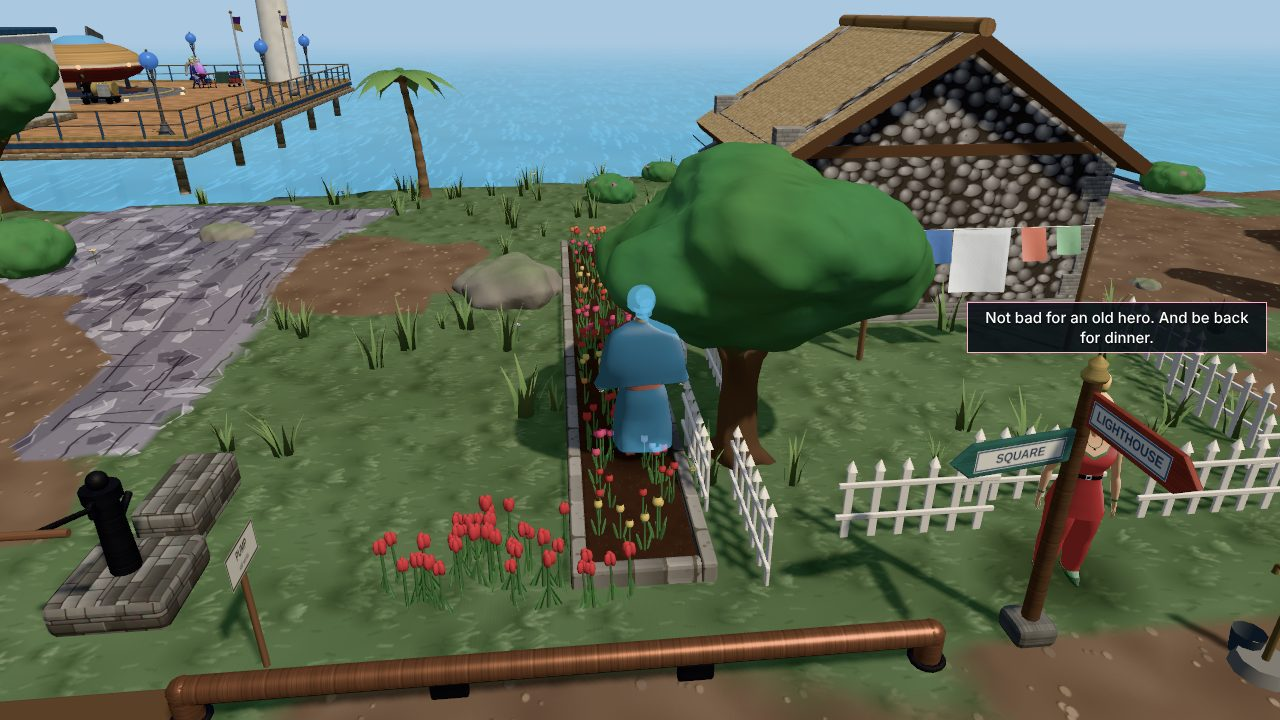
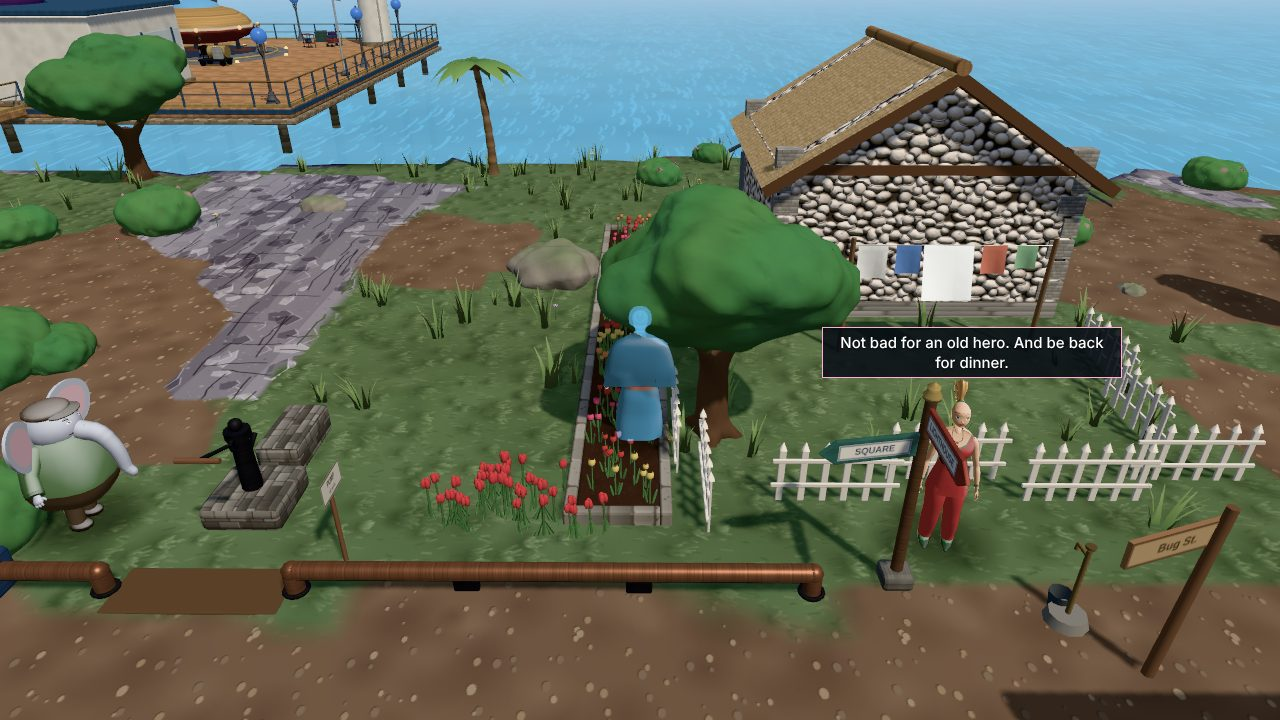
P132: the user's pick "e + f, no cost": the painted relief and the wall normal maps on all five textures on by default
Claude-Session: https://claude.ai/code/session_012GFEakZyL3XxjZKHRj5dFg

diff --git a/lba3/src/engine/textures.js b/lba3/src/engine/textures.js
@@ -374,7 +374,7 @@ export function makeTextures() {
   }
   islandTextures(T);
   nameWorldTextures(T);   // (DEPTH-LOOK: each painted texture's relief weight by its name)
-  if (DL.paint) paintDepth(T);   // (DEPTH-LOOK ?depth=paint: off by default)
+  if (DL.paint) paintDepth(T);   // (DEPTH-LOOK paint: on by default since the user's pick 25.11, P132; ?depth=none off)
   return T;
 }
 
@@ -752,8 +752,9 @@ export const WALLNORM = {
   //  dressed stone `stone` and Zeelich's corrugated sheet `zrib` are off until the user picks them (order 70.2):
   //  `?wallnormals=all` or by name, `?wallnormals=fortStone,rubbleHouse,rubble,stone,zrib`)
   names: (() => { const ON = ['fortStone', 'rubbleHouse', 'rubble'], ALL = [...ON, 'stone', 'zrib'];
-    if (!WN_ARG || WN_ARG[1] === '1') return new Set(ON);
-    if (WN_ARG[1] === 'all') return new Set(ALL);
+    // (P132, the user's pick 25.11 "e + f": all five by default now; `?wallnormals=1` the three as before)
+    if (!WN_ARG || WN_ARG[1] === 'all') return new Set(ALL);
+    if (WN_ARG[1] === '1') return new Set(ON);
     return WN_ARG[1] === '0' ? new Set() : new Set(WN_ARG[1].split(',')); })(),
   str: (typeof location !== 'undefined' && +(/[?&]wnstr=([\d.]+)/.exec(location.search) || [])[1]) || 1,
   // (the user, 24.11: "don't touch the normal map, it's good; just make it weigh more in the material": the map is drawn

diff --git a/lba3/src/engine/depthlook.js b/lba3/src/engine/depthlook.js
@@ -34,7 +34,8 @@ export const DL = {
   light: ALL || SET.has('light'),
   contact: ALL || SET.has('contact'),
   rim: ALL || SET.has('rim'),
-  paint: ALL || SET.has('paint'),
+  // (P132, the user's pick 25.11: "e + f, no cost": the painted relief is ON by default; `?depth=none` turns it off)
+  paint: ALL || SET.has('paint') || !SET.has('none'),
   // (the preset: the relief lighter where the paint already carries it, the light a little softer than alone)
   reliefK: num('dlrel', SET.has('preset') ? 0.7 : 1), aoK: num('dlao', 1), rimK: num('dlrim', 1), keyK: num('dlkey', SET.has('preset') ? 0.8 : 1), paintK: num('dlpaint', 1),
   focus: new THREE.Vector3(), area: null, bakes: 0, lastBake: null,

diff --git a/lba3/docs/lba-maturity/status.md b/lba3/docs/lba-maturity/status.md
@@ -210,7 +210,7 @@ v68 published 9.11 (1794197460-ceb9): Desert Island and the Hamalayi passes, DOO
 | P129 | 24.11 | Release date set: the full game ships 31.5.2027 | the user: "תגדיר המשחק צריך לצאת באופן מלא ב 31.5.27 שזה 30 שנה מlba2" | The target changes from a private-tester exe to a full public release. Milestones: content complete 31.12.2026, content freeze 15.3.2027, 1.0 RC 1.5.2027, final freeze 17.5.2027, release 31.5.2027. Decisions for the user before the RC: where it ships, name and branding (#21), licences (#33), installer signing, languages. RELEASE-2027.he.md; OPEN-TASKS header; NEXT-SESSION. Set. |
 | P130 | 25.11 | Twinsen stands on the pier in the opening film, under the title (the user's phone picture of v162; P127's question was about him, not the crew) | the user: "הנה טווינסן לזה התכוונתי" | Found: in the notebook cut (the default) the cut to the island at old 8 s calls exitRoom, which stands the hero at the harbour (HP(-80,-4)), visible beside the crew to the cut home at old 29 s. Fix (story/opening.js): at that cut he is put at home (twSpot), as the film's other cut already did. Checked on the title shot (portrait, old 12.2 s): the pier holds the crew only. The user's picks the same day, one by one: P127 crew look kept (yellow hat; Dallan unchanged); Arthur reads the notebook kept; P128 crystals kept; School sill kept; wave 2 kept (all three, with the figures' painted eyes); wave 1 kept unseen (spoilers); v162's E rule, overhead remarks and softer guard kept, baton damage stays 2; wave 6 kept with changes (light the mine rooms and the Blow, catch range 2.6 → 1.8 m, build the murals step at the Dark Monk's temple; the glove keeps both sources); KEYS-CLOVER: cap 13, a leaf in each box, the key stays with Twinsen, a fourth key-door in a late area, the key on the HUD. Fixed; picks recorded. Published v163 (1795596380-7a3c, built from the v162 branch tree f98766f5 + the opening fix; wave 6 held for its second round). opening.mjs: 36 PASS, 0 FAIL; the last three skip checks did not run (a page boot timed out under load). |
 | P131 | 25.11 | Zoé's head still looks very strange; "maybe more like an almond" (reopens P126, closed with "keep the round one") | the user: "שיקרתי קצת והראש של זואי עדיין מאוד מוזר אני לא יודע לשים את האצבע על זה אולי יותר בצורה של שקד" | Seen beside the LBA2 render (scratchpad p126-zoe-ref.jpg, never committed): today's head is a small round ball with the face low on it; the render's head is an almond: long, tilted forward, a high slanted forehead running into the ponytail, big eyes set high and wide, tapering to a narrow chin, large for the neck. Then the user: "לבדוק את המודל של lba2 של זואי". Worker ZOE-HEAD-4 started: LBA2's own Zoé model rendered through lba2remake.net and measured (pictures in scratch only), then: almond variants behind ?zoehead=, front/3-4/side/talking beside the reference and today's head, then in play; the user picks (P107). ZOE-HEAD-4 merged: LBA2's in-game Zoé measured (front as ours; from the side 39 % deeper, the long axis 61° back; her in-game hair is a bun of balls, ours the promo ponytail). Three heads: almond (fitted to LBA2), almond-s (halfway), almond-chin. **The user picked almond-s (now the default; ?zoehead=twinsen is the head before) and kept the ponytail.** Zoé suite PASS 3/3 with the new default (automated runtime only). Fixed. |
-| P132 | 25.11 | "I look at the game and don't see the work on the walls and the depth of the look; everything looks very flat" (on the PC) | the user: "אני מסתכל על המשחק ולא רואה את העבודה שעשיתה בנושא הקירות והעומק של הנראות הכל נראה מאוד שטוח" | Seen in code: the wall relief (WALL-NORMALS, normalScale 2.5, v161) is on only for three Citadel textures (the fort's stone, the houses' rubble, the harbour rubble); Zeelich, the isles, the desert, the mountains and the rooms have none, and from the Far play camera even the Citadel's reads quiet. Worker DEPTH-LOOK started: measure what flattens the picture at the play camera on the PC presets (light/shadow contrast, AO, normals, fog, outlines), then candidates behind switches with before/after pictures for the user's pick (P107). Open. |
+| P132 | 25.11 | "I look at the game and don't see the work on the walls and the depth of the look; everything looks very flat" (on the PC) | the user: "אני מסתכל על המשחק ולא רואה את העבודה שעשיתה בנושא הקירות והעומק של הנראות הכל נראה מאוד שטוח" | fixed (DEPTH-LOOK: the user's pick 25.11 "e + f, no cost": the LBA2-style painted relief in every wall texture, and the stone relief on Zeelich and the islands, on by default; contact shading, relief maps and the light change stay behind switches. v170) |
 | P133 | 25.11 | The installer and the app are blocked on the desktop by Smart App Control (reported through the local agent: "the user said yes" to a GitHub build) | the local agent, ORDER-71: `npm run dist:win` stops at NSIS (`spawn UNKNOWN`); the unpacked exe and the Test Lab's electron.exe blocked (CodeIntegrity 3077); the user keeps Smart App Control on and does not want to pay for a certificate. The Windows installer is built on GitHub instead (Desktop builds run 725, by hand without `[build]`, v169 at c4109830; the Windows leg passed). Where to download it and the SHA-256 are in CLOUD_ORDERS 72. Unsigned, it may still be blocked there; the two free signing ways read: SignPath Foundation does not fit (it needs an OSI-licensed open project, publisher SignPath; LBA3 is UNLICENSED and an unofficial sequel); the Microsoft Store is free to join and signs the MSIX, but only after certification, and an unofficial LBA sequel is a likely IP rejection: the user's decision, for the release. Until then the game in Chrome. | open (the desktop installs and reports: ORDER-72) |
 | P134 | 25.11 | "What about Zoé's head, still not fixed?" | the user: "מה עם הראש של זואי עדיין לא תוקן?" | P131 (almond-s) is in v168 and v169, and the local agent saw it on the user's PC (ORDER-71). The installed Windows app from 24.11 and a cached page are older. Compared with LBA2's own picture: from the side the back of the skull is a heavy, low bulge behind the ear, and from the front the face is wide and flat; LBA2's head is a long almond tilted back with a narrow face. ZOE-HEAD-5 started, then stopped: on the desktop the user picked (through the local agent, pictures front, ¾, side beside Twinsen and the LBA2 box art) `almond-m`, three quarters of the way to the almond (almond-s "too round", the full almond and almond-chin "not wow"). almond-m is the default; ?zoehead=almond-s and the rest stay for comparison | fixed (almond-m, to publish in v170) |
 

diff --git a/lba3/docs/lba-maturity/OPEN-TASKS.he.md b/lba3/docs/lba-maturity/OPEN-TASKS.he.md
@@ -10,11 +10,11 @@
 | # | משימה | מה יוצא ממנה | מקור |
 |---|---|---|---|
 | 56 | הרחבה, גל 8: ארבעה סודות שנפתחים כל אחד בהתנהגות אחרת (בלי תלתן), כותרות על הלוחות על מה שעשית, סבב תודה בסוף ורשימת טובות פתוחות ביומן | תמונות לבחירה שלך | אישרת |
-| 57 | הכל נראה שטוח במחשב (P132): הבליטה בקירות קיימת רק בשלושה סוגי אבן במצודה. בודקים מה משטיח את התמונה ומכינים כמה תיקונים מאחורי מתג | תמונות לפני ואחרי לבחירה שלך | ביקשת 25.11 |
 
 ## ✅ הסתיים היום
 | משימה | תוצאה |
 |---|---|
+| הכל נראה שטוח (P132) | הסיבה: מה שבצל מקבל אור אחיד, בלי הכהיה בפינות ובבסיס הקיר, והבליטה הייתה רק בשלושה טקסטורות. בחרת e + f: בליטה מצוירת בסגנון LBA2 בכל הקירות, והבליטה של האבן בזליך ובאיים. בלי עלות בזמן משחק. ייצא ב־v170 |
 | הרחבה, גל 5 (H-12, H-13, H-14) | השיפורים אצל נל ופחי האבטיפוס של בלדינו, בור המים במנזר עם קנקן התה, התפר במכרה, המדידות של אילקה עם הטבעות במפה. בחרת להשאיר הכל ולפרסם; הערימה במצודה נשארת ליד המחסן, תרמיל הקפיצה 3.0 שניות, התפר מפרק 4 (25.11) |
 | איזון התלתן, אפשרות א | 12 פרסים הפכו לקאש, החנויות מוכרות עלה רק מתחת ל־9, בתקרה פרס נותן 10 קאש. גם מילה, ארתור ופיפה נותנים קאש (בחרת 25.11) |
 | הראש של זואי (P134) | בחרת במחשב את almond-m: שלושה רבעים מהדרך לשקד (almond-s "עגול מדי", השקד המלא "לא וואו"). עכשיו ברירת המחדל, ייצא ב־v170 |

diff --git a/lba3/docs/lba-maturity/DEPTH-LOOK.md b/lba3/docs/lba-maturity/DEPTH-LOOK.md
@@ -190,3 +190,6 @@ its normal, `isnan` checked) and the re-take is clean. Medium has no bloom and n
 ההמלצה: paint + contact + relief (ואפשר גם f): הבלוקים בחומה בולטים מהמישקים גם בצל (+24% פרטים בקיר), רגל הקיר
 והקרקע לידה מתכהות, ושום דבר לא נהיה כהה או "מלוכלך". האור החזק (b) והפינות (d) — לא, כי b מכהה את הצל ו-d לא נראה.
 הכול נבדק אוטומטית בלבד (SwiftShader), בלי GPU אמיתי; את העלות על המחשבים של המשתמש צריך לבדוק שם.
+
+## The user's pick (25.11)
+"e + f, no cost": the painted relief (e) is on by default (`?depth=none` turns it off), and the wall normal maps on all five textures (f: `fortStone`, `rubbleHouse`, `rubble`, `stone`, `zrib`; `?wallnormals=1` the three as before). (a) relief, (b) light, (c) contact and (d) rim stay behind their switches until their cost is measured on a real GPU.
